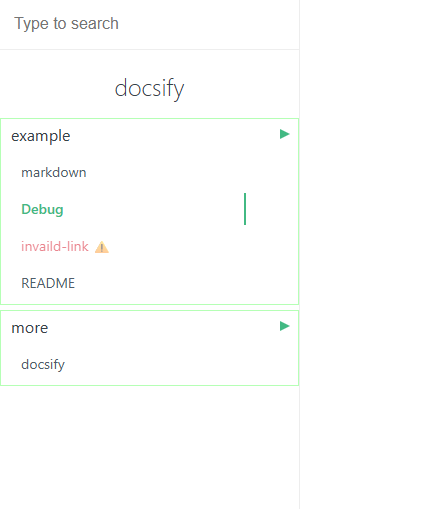
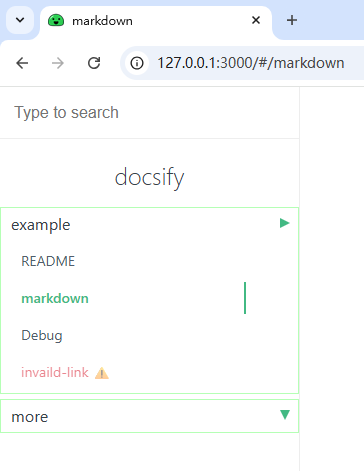
docs:README.md

diff --git a/README_CN.md b/README_CN.md
@@ -31,23 +31,25 @@
 
 ## 目录格式
 ```markdown
-* 目录1
-  * [标题1](/路径1)
-  * [标题2](/路径2)
-  * [标题3](/路径3)
-* 目录2
-  * [标题4](/路径4)
+* example
+  * [README](/)
+  * [markdown](/markdown)
+  * [Debug](/Debug)
+  * [invaild-link](/invaild-link)
+* more
+  * [docsify](https://docsify.js.org/)
 ```
 
 或者另一种格式
 
 ```markdown
-- 目录1
-  - [标题1](/路径1)
-  - [标题2](/路径2)
-  - [标题3](/路径3)
-- 目录2
-  - [标题4](/路径4)
+- example
+  - [README](/)
+  - [markdown](/markdown)
+  - [Debug](/Debug)
+  - [invaild-link](/invaild-link)
+- more
+  - [docsify](https://docsify.js.org/)
 ```
 
 

diff --git a/README.md b/README.md
@@ -30,23 +30,25 @@
 
 ## Directory Format
 ```markdown
-* Category1
-  * [Title1](/path1)
-  * [Title2](/path2)
-  * [Title3](/path3)
-* Category2
-  * [Title4](/path4)
+* example
+  * [README](/)
+  * [markdown](/markdown)
+  * [Debug](/Debug)
+  * [invaild-link](/invaild-link)
+* more
+  * [docsify](https://docsify.js.org/)
 ```
 
 Or format like bellow
 
 ```markdown
-- Category1
-  - [Title1](/path1)
-  - [Title2](/path2)
-  - [Title3](/path3)
-- Category2
-  - [Title4](/path4)
+- example
+  - [README](/)
+  - [markdown](/markdown)
+  - [Debug](/Debug)
+  - [invaild-link](/invaild-link)
+- more
+  - [docsify](https://docsify.js.org/)
 ```
 
 ### preview
